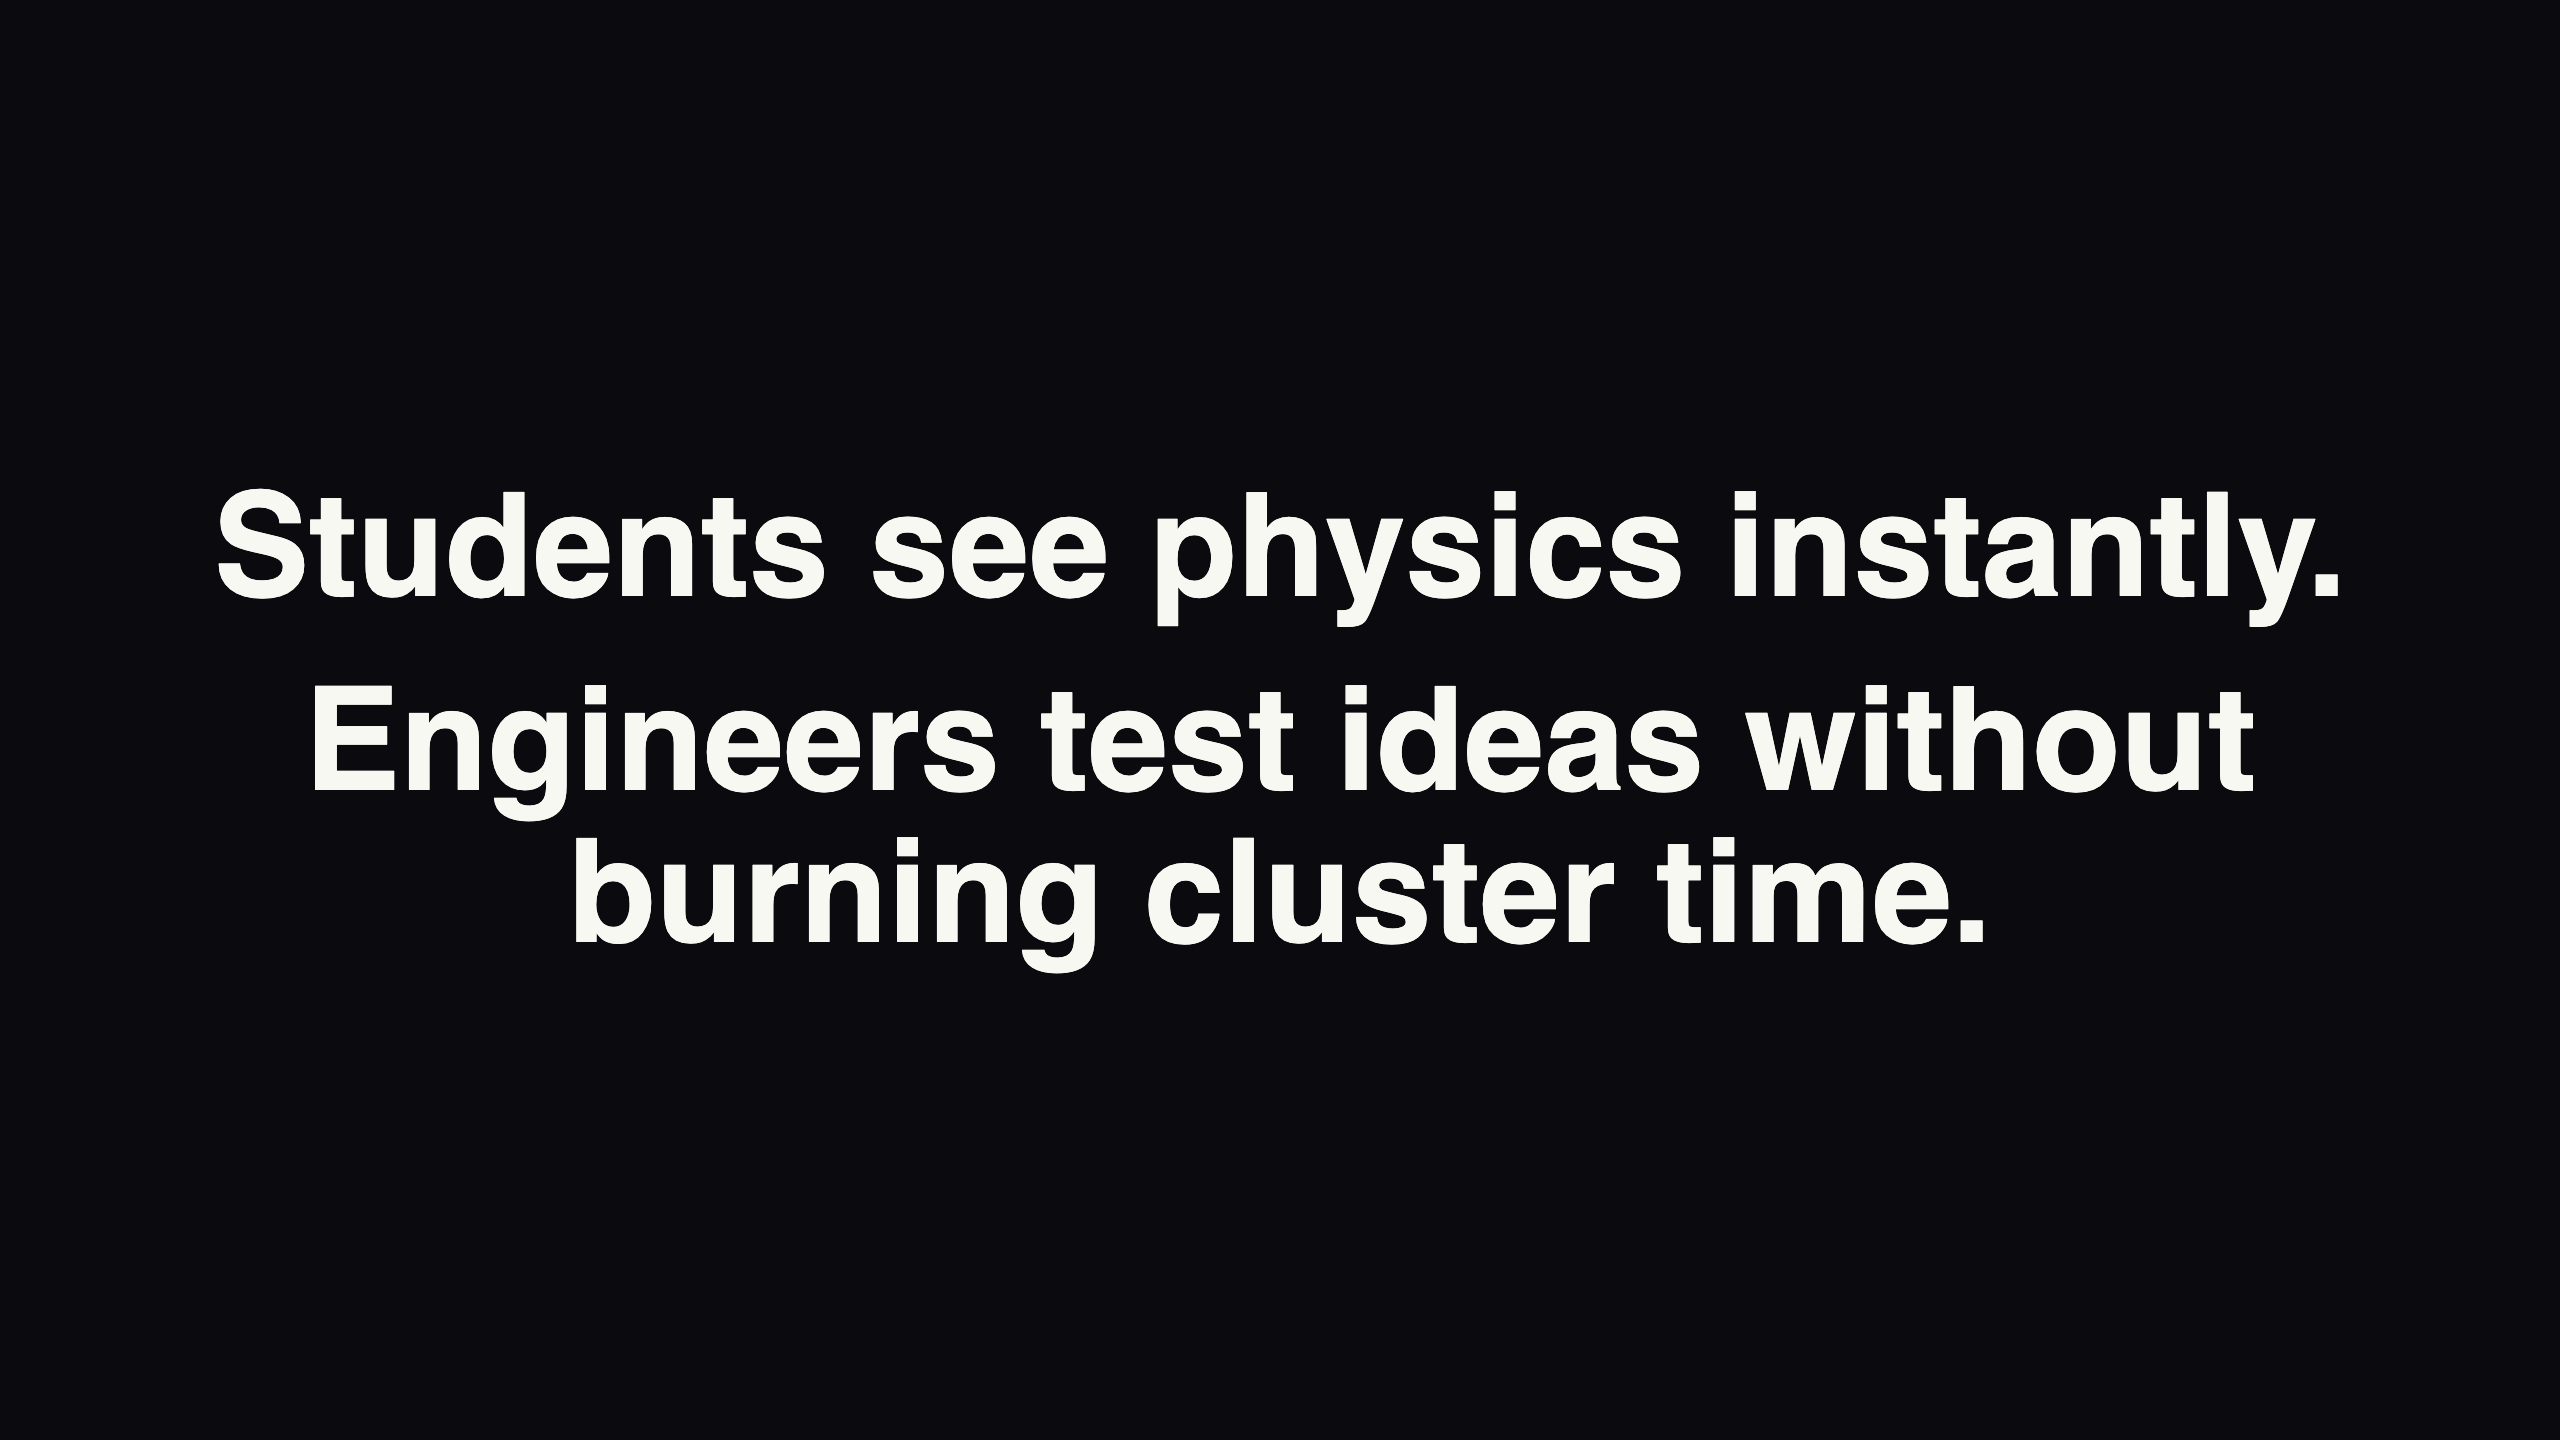
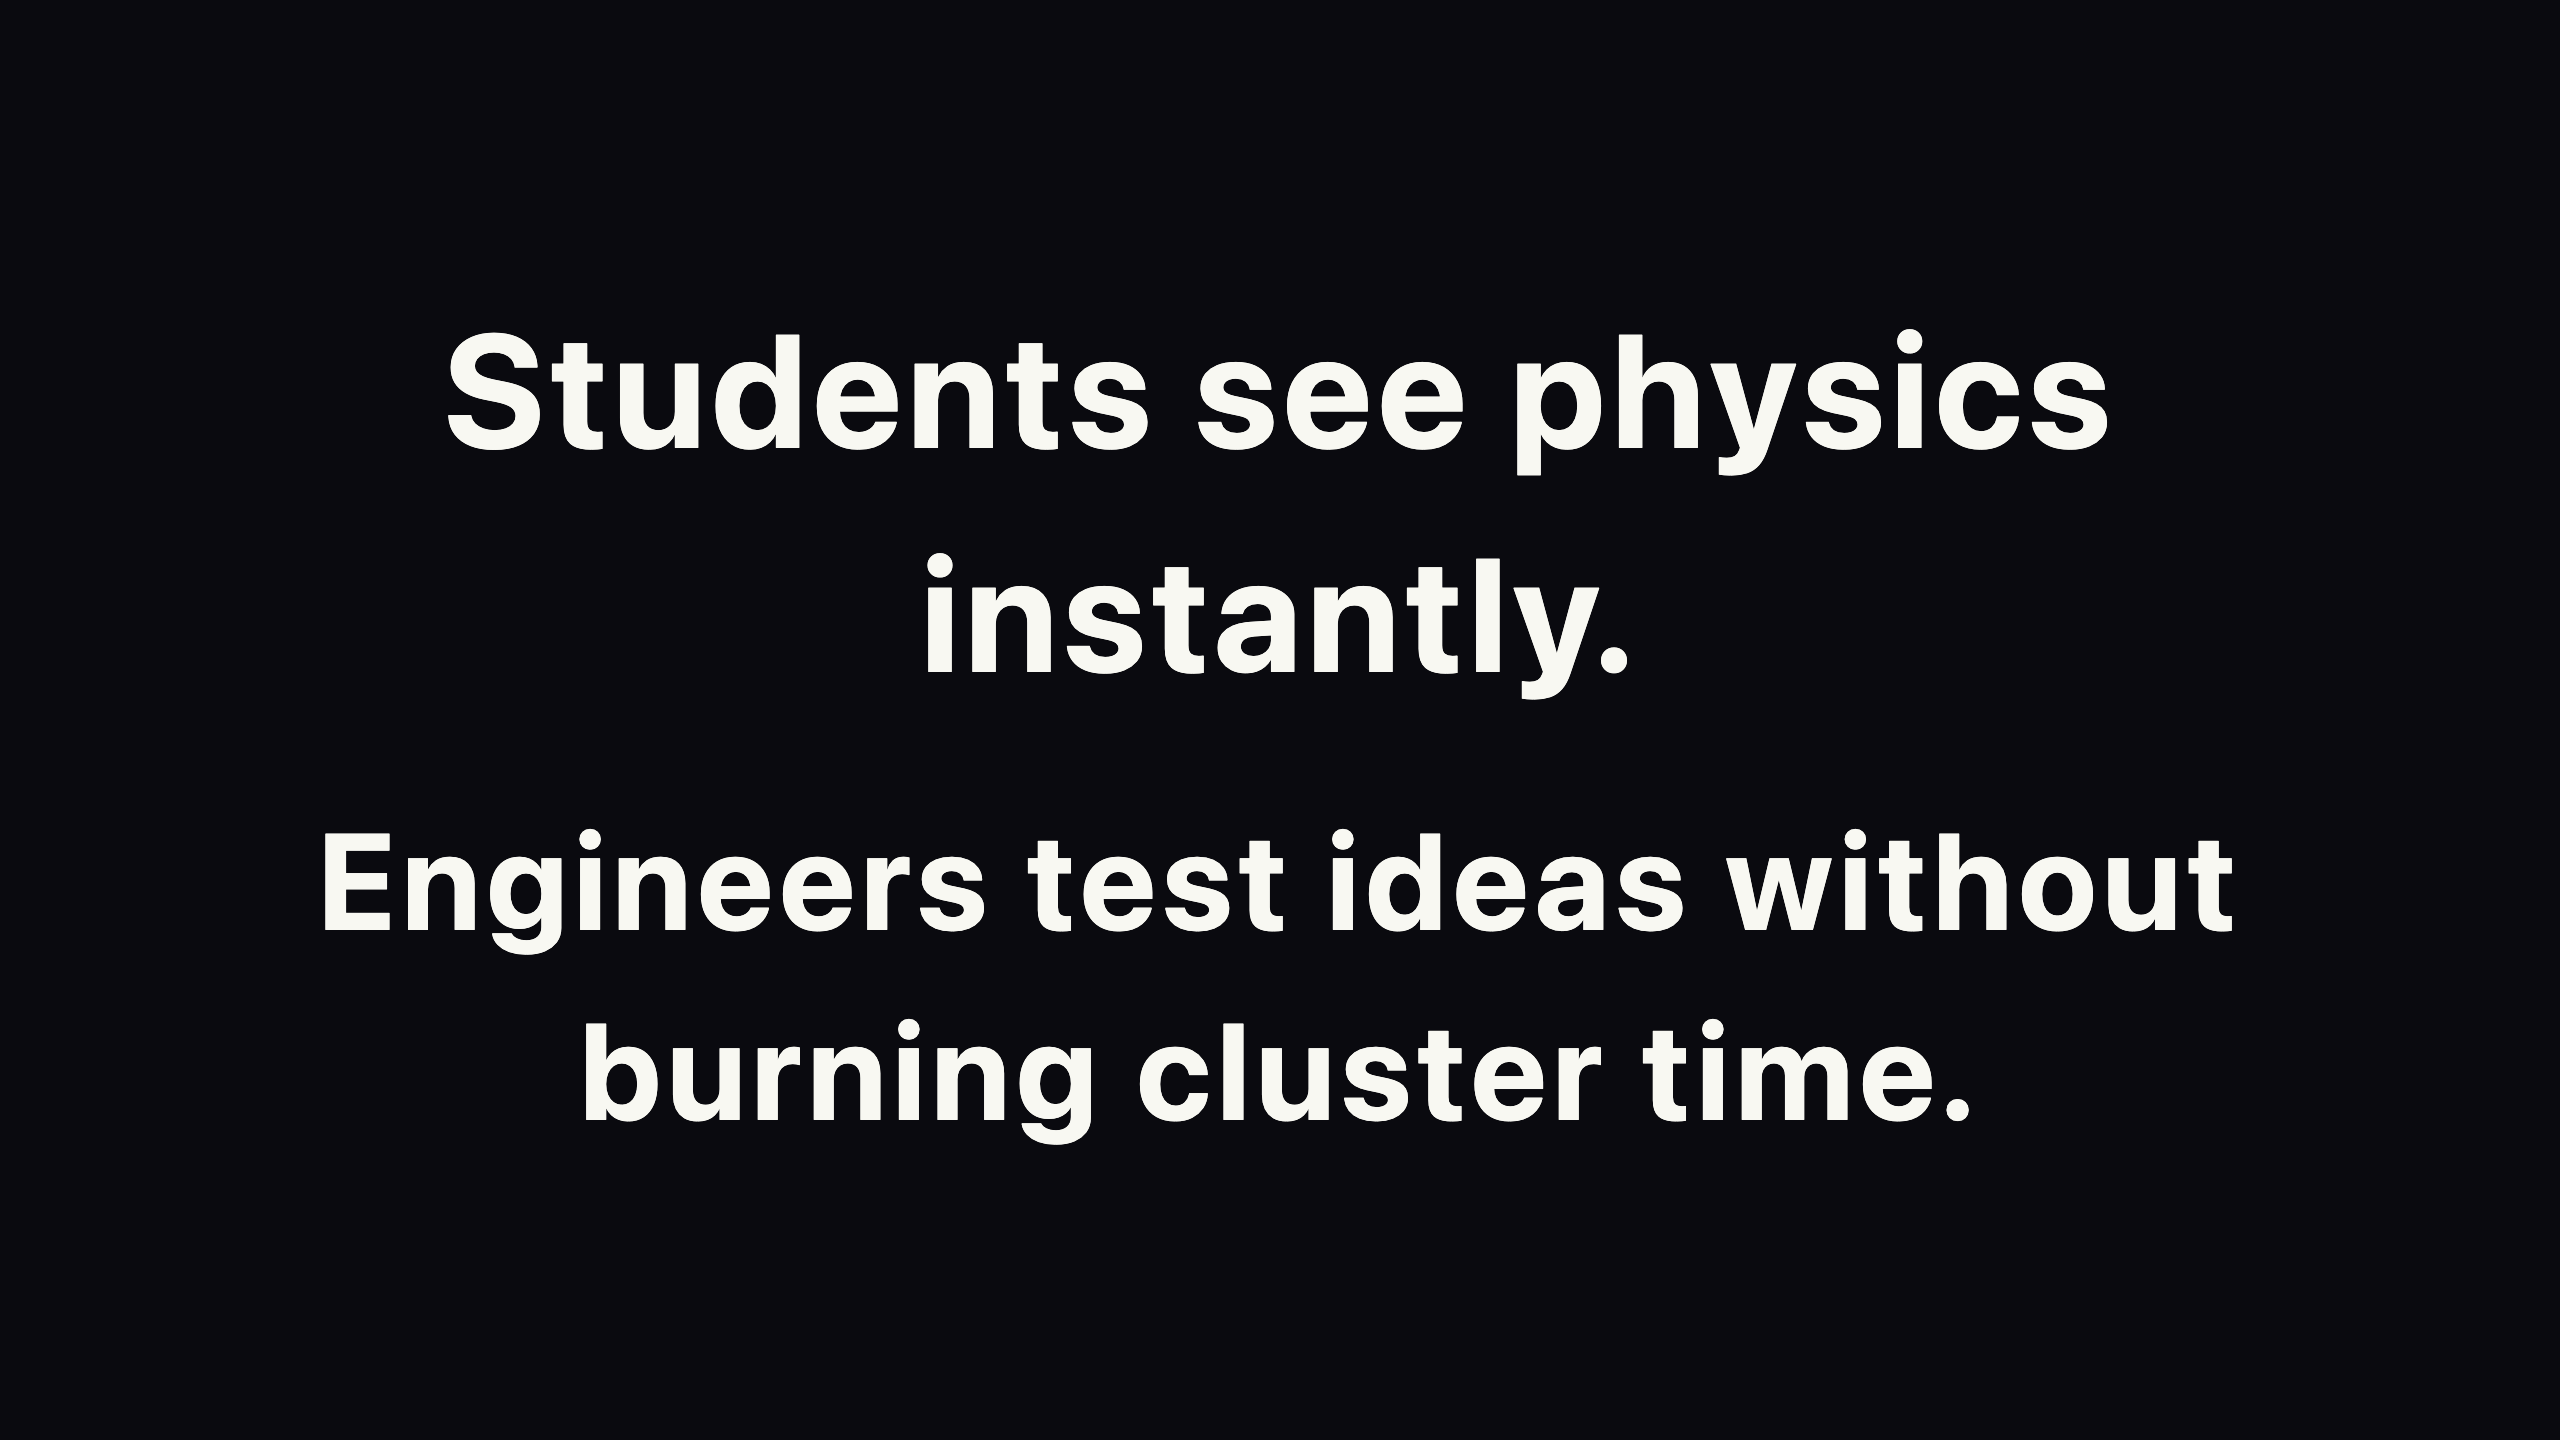
docs: restyle slides on Uncover with Dracula purple highlight

Changed region(s): [[0.0625, 0.2188, 0.9062, 0.6875], [0.2188, 0.7188, 0.7812, 0.8125]]

diff --git a/slides/theme.css b/slides/theme.css
@@ -1,82 +1,34 @@
 /* @theme gearflow */
-@import 'default';
+@import "uncover";
 
 section {
-  background: #0A0A0F;
-  color: #F8F8F2;
-  font-family: Helvetica, Arial, sans-serif;
-  display: flex;
-  flex-direction: column;
-  align-items: center;
-  justify-content: center;
-  text-align: center;
-  padding: 64px 80px;
+  --color-background: #0A0A0F;
+  --color-foreground: #F8F8F2;
+  --color-highlight: #BD93F9;
+  --color-highlight-hover: #D6B4FE;
+  --color-highlight-heading: #BD93F9;
+  --color-header: rgba(248, 248, 242, 0.4);
+  --color-header-shadow: rgba(10, 10, 15, 0.8);
+  --color-background-code: #0D0D12;
+  --color-background-paginate: rgba(248, 248, 242, 0.05);
+  --color-cyan: #8BE9FD;
+  --color-amber: #FFB86C;
+  --color-muted: #6272A4;
 }
 
-section h1,
-section h2 {
-  color: #F8F8F2;
-  font-weight: 800;
-  line-height: 1.05;
-  margin: 0.15em 0;
+section em {
+  color: var(--color-cyan);
+  font-style: normal;
 }
 
-section p,
-section div {
-  color: #F8F8F2;
+section span.cyan {
+  color: var(--color-cyan);
 }
 
-.eyebrow {
-  font-size: 22px;
-  letter-spacing: 0.28em;
-  text-transform: uppercase;
-  color: #6272A4;
-  margin-bottom: 24px;
+section span.amber {
+  color: var(--color-amber);
 }
 
-.lead {
-  font-size: 72px;
-  font-weight: 800;
-  line-height: 1.05;
-  color: #F8F8F2;
-  margin: 0.15em 0;
-}
-
-.accent-purple {
-  color: #BD93F9;
-  font-weight: 800;
-}
-
-.accent-cyan {
-  color: #8BE9FD;
-  font-weight: 700;
-  font-size: 36px;
-}
-
-.accent-amber {
-  color: #FFB86C;
-  font-weight: 700;
-}
-
-.muted {
-  color: #6272A4;
-  font-size: 26px;
-}
-
-.mono {
-  font-family: Menlo, Courier New, monospace;
-  font-size: 22px;
-  color: #F8F8F2;
-  background: #0D0D12;
-  border: 1px solid #6272A4;
-  border-radius: 10px;
-  padding: 12px 20px;
-  margin-top: 28px;
-  max-width: 100%;
-  white-space: nowrap;
-}
-
-small,
-.mono.small {
-  font-size: 20px;
+section span.muted {
+  color: var(--color-muted);
 }

diff --git a/slides/deck.md b/slides/deck.md
@@ -4,56 +4,70 @@ theme: gearflow
 paginate: false
 ---
 
-<div class="eyebrow">SOLO INDIE BUILDER</div>
+<!-- _class: invert -->
 
-<div class="lead">Ajeet</div>
+###### SOLO INDIE BUILDER
 
-<div class="accent-cyan">GearFlow: chat sets up aerodynamics</div>
+# Ajeet
 
----
-
-<div class="lead">CFD setup takes hours.</div>
-
-<div class="lead accent-purple">What if it took seconds?</div>
-
-<div class="muted">No meshes. No menus. Just describe it.</div>
+*GearFlow: chat sets up aerodynamics*
 
 ---
 
-<div class="lead">Students see physics instantly.</div>
+<!-- _class: invert -->
 
-<div class="lead">Engineers test ideas without burning cluster time.</div>
+# CFD setup takes hours.
 
----
+## What if it **took seconds?**
 
-<div class="eyebrow">ONE HARNESS, EVERY TURN</div>
-
-<div class="mono">You → Meta text model (Modal) → fenced actions → validator → app + tutor</div>
-
-<div class="mono small">n=1, capped length, temp 0, 5 action cap, $5 spend cap</div>
+###### No meshes. No menus. Just describe it.
 
 ---
 
-<div class="lead">Labeled, always.</div>
+<!-- _class: invert -->
 
-<div class="accent-amber">analytic preview, potential flow estimate, not validated</div>
+# Students see physics instantly.
 
-<div class="mono small">cache 24h, spend capped $5, failures land honest with Retry</div>
-
----
-
-<div class="lead">2D inviscid today.</div>
-
-<div class="lead accent-cyan">Full solver next.</div>
-
-<div class="muted">agent drives a built-in solver end to end, image + audio inputs later</div>
+## Engineers test ideas without burning cluster time.
 
 ---
 
-<div class="lead">GearFlow</div>
+<!-- _class: invert -->
 
-<div>Ajeet</div>
+###### ONE HARNESS, EVERY TURN
 
-<div class="muted">Meta Global Hackathon</div>
+`You → Meta text model (Modal) → fenced actions → validator → app + tutor`
 
-<div class="mono small">[repo URL] + [demo URL]</div>
+`n=1, capped length, temp 0, 5 action cap, $5 spend cap`
+
+---
+
+<!-- _class: invert -->
+
+# Labeled, always.
+
+## <span class="amber">analytic preview, potential flow estimate, not validated</span>
+
+`cache 24h, spend capped $5, failures land honest with Retry`
+
+---
+
+<!-- _class: invert -->
+
+# 2D inviscid today.
+
+## *Full solver next.*
+
+###### agent drives a built-in solver end to end, image + audio inputs later
+
+---
+
+<!-- _class: invert -->
+
+# GearFlow
+
+## Ajeet
+
+###### Meta Global Hackathon
+
+`[repo URL] + [demo URL]`
